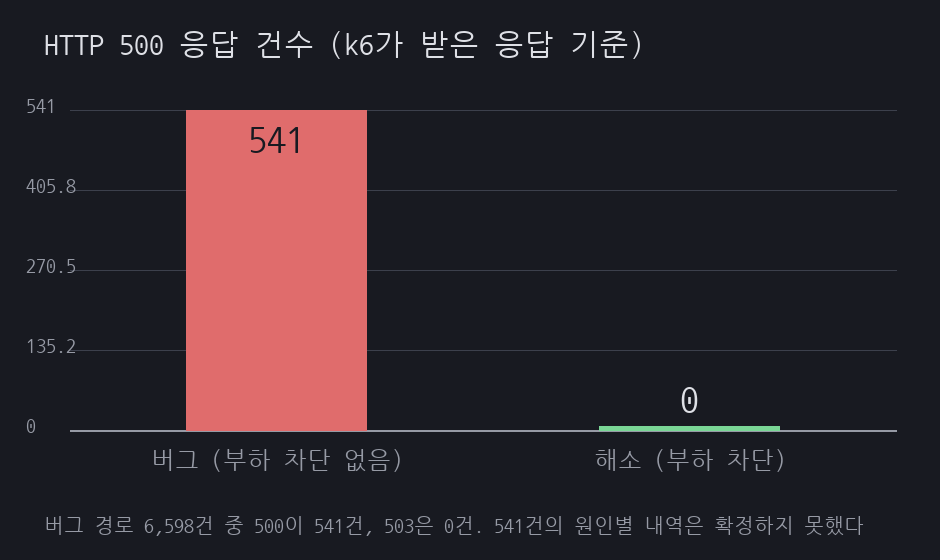
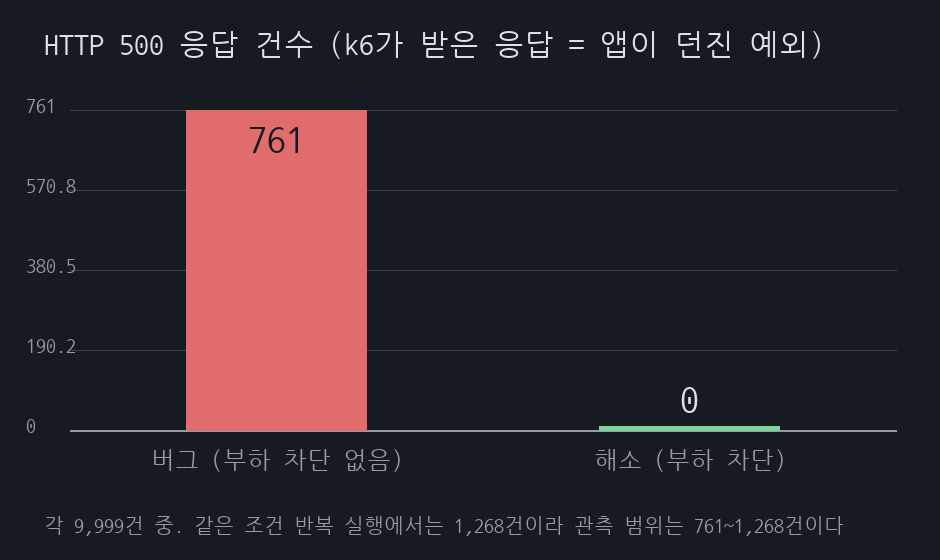
접속 폭주 편 재측정 그림 반영
F03 재측정에서 다시 만든 그림을 uploads로 옮겼습니다. Tomcat 스레드
계층의 몫을 가른 05-latency-layers.png가 새로 들어갔습니다.
본문 수치 반영은 아직 하지 않았습니다.

diff --git a/src/content/blog/incident/market-open-connection-storm.md b/src/content/blog/incident/market-open-connection-storm.md
@@ -1,8 +1,8 @@
 ---
 title: '오전 9시 접속 폭주에 커넥션 10개짜리 풀이 무너진다'
 titleEn: 'The 9 AM Market Open Traffic Storm'
-description: '한국 증권사 MTS는 장이 열리는 오전 9시에 트래픽이 몰립니다. 국회 정무위원회 이양수 의원실이 증권사 12곳에서 받은 자료로 2022년 1월부터 2026년 3월까지 MTS 전산 장애가 190건 있었습니다. 각 사의 내부 원인 분석은 공개되지 않았습니다. 원인 가설 가운데 커넥션 풀 고갈만 떼어 Spring Boot와 HikariCP로 규모를 줄여 축소 재현했습니다. 풀 10에 초당 400건을 겨냥한 스파이크를 부으니 응답 중앙값이 3.38초로 밀리고 커넥션 획득 타임아웃이 났습니다. k6가 받은 6,598건 가운데 541건이 500이었습니다. 부하 차단을 한 겹 넣자 받은 요청의 중앙값이 51ms, 500이 0건이 됐습니다. 다만 두 실행이 앱에 넣은 요청 수가 6,598건과 9,959건으로 달라 처리량 비교는 하지 않습니다.'
-descriptionEn: "Korean brokerage MTS apps take their heaviest traffic the moment the market opens at 9 AM. A National Assembly office collected 190 MTS outages across 12 brokerages between January 2022 and March 2026, but no firm published its internal root cause, so this session reproduces one representative mechanism at reduced scale instead: connection pool exhaustion on Spring Boot and HikariCP. A pool of 10 under a spike targeting 400 requests per second pushed median latency to 3.38s and produced connection acquisition timeouts, with 541 of the 6,598 responses k6 received coming back as HTTP 500; one layer of load shedding brought the median for admitted requests back to 51ms with zero 500s. The two runs did not deliver the same load to the app (6,598 vs 9,959 requests), so this post does not compare throughput."
+description: '한국 증권사 MTS는 장이 열리는 오전 9시에 트래픽이 몰립니다. 국회 정무위원회 이양수 의원실이 증권사 12곳에서 받은 자료로 2022년 1월부터 2026년 3월까지 MTS 전산 장애가 190건 있었습니다. 각 사의 내부 원인 분석은 공개되지 않았습니다. 원인 가설 가운데 커넥션 풀 고갈만 떼어 Spring Boot와 HikariCP로 규모를 줄여 축소 재현했습니다. 풀 10에 초당 400건 스파이크를 부으니 응답 중앙값이 11.42초로 밀리고 9,999건 가운데 761건이 커넥션 획득 타임아웃으로 500이 됐습니다. 부하 차단을 한 겹 넣자 같은 부하에서 중앙값 51ms, 500이 0건이 됐고 넘치는 요청은 중앙값 1ms에 503으로 돌아갔습니다. 계층별로 재 보니 중앙값 11.42초 가운데 커넥션 풀 대기는 0.96초뿐이고 약 10.4초는 Tomcat 작업 스레드를 기다린 시간이었습니다.'
+descriptionEn: "Korean brokerage MTS apps take their heaviest traffic the moment the market opens at 9 AM. A National Assembly office collected 190 MTS outages across 12 brokerages between January 2022 and March 2026, but no firm published its internal root cause, so this session reproduces one representative mechanism at reduced scale instead: connection pool exhaustion on Spring Boot and HikariCP. A pool of 10 under a 400 requests per second spike pushed median latency to 11.42s, and 761 of the 9,999 requests came back as HTTP 500 from connection acquisition timeouts. One layer of load shedding, under an identical load, brought the median back to 51ms with zero 500s while shedding the excess as 503 in a median of 1ms. Instrumenting each tier showed that only 0.96s of the 11.42s median was connection pool wait; roughly 10.4s was spent waiting for a Tomcat worker thread."
 date: 2026-07-28
 tags:
   - Spring Boot
@@ -29,19 +29,21 @@ coverImage: /uploads/incident/market-open-connection-storm/01-buggy-storm.png
 
 증권 MTS의 시세 조회 API를 축소했습니다. Spring Boot 3.3의 내장 Tomcat에 조회 엔드포인트 `GET /quote`를 두고, 조회 한 건이 DB 커넥션을 약 50ms 점유하도록 했습니다. 느린 조인이나 직렬화, 외부 시세 대기 같은 실제 지연을 pg_sleep으로 모델링한 것입니다. HikariCP 풀은 10, 커넥션 획득 제한 시간은 2초입니다. 조회 한 건이 커넥션을 50ms 잡으므로 풀 10으로는 초당 약 200건이 한계입니다. 이 200건이라는 상한은 실측이 아니라 `pg_sleep(0.05)`라는 모형이 정의한 값입니다. 실제 조회는 CPU와 IO를 쓰고 서로 경합하므로 상한이 이렇게 깔끔하게 떨어지지 않습니다. 이 글에서 초당 200건이라는 표현이 나오면 전부 이 모형의 산술이라고 읽어야 합니다.
 
-부하는 k6로 09:00 정각 스파이크를 흉내 냈습니다. 도착률 모델로 초당 400건을 5초에 걸쳐 올려 20초를 유지했습니다. 풀 용량의 두 배입니다. 환경은 Docker 위 Postgres 16과 eclipse-temurin:21입니다.
+부하는 k6로 09:00 정각 스파이크를 흉내 냈습니다. 도착률 모델로 초당 400건을 5초에 걸쳐 올려 20초를 유지했습니다. 풀 용량의 두 배입니다. VU는 5,000개를 미리 잡아 두었습니다. 이 숫자가 중요합니다. VU 하나는 응답을 받을 때까지 묶여 있으므로, 모자라면 도착률 모델을 걸어 두고도 목표만큼 쏘지 못합니다. 처음 측정에서 실제로 그렇게 됐고, 그 이야기는 5절에서 하겠습니다. 환경은 Docker 위 Postgres 16과 eclipse-temurin:21입니다.
 
-호스트는 2 vCPU 한 대입니다(`uname -srm`은 `Linux 5.14.0-570.33.2.el9_6.aarch64`, `nproc`는 2, 메모리 11GiB). Postgres와 앱, 그리고 부하 생성기 k6가 모두 이 한 대에서 돌았고 compose 파일에 컨테이너 CPU 제한을 걸지 않았습니다. 부하 생성기가 측정 대상과 코어 두 개를 나눠 썼다는 뜻이라, 아래 지연 수치에는 k6 자신이 만든 경합이 섞여 있습니다.
+호스트는 2 vCPU 한 대입니다(`uname -srm`은 `Linux 5.14.0-570.33.2.el9_6.aarch64`, `nproc`는 2, `free -g`의 total은 11). Postgres와 앱, 그리고 부하 생성기 k6가 모두 이 한 대에서 돌았고 compose 파일에 컨테이너 CPU 제한을 걸지 않았습니다. 게다가 이 장비에는 모니터링 스택이 상주하고, 측정 나흘 전부터 `dockerd`가 계속 논리 코어 하나를 통째로 쓰고 있었습니다. 이 조건을 바꾸지 못한 채 쟀으므로, 실행마다 `uptime`을 찍어 세션 기록에 남겼습니다. 아래 두 실행의 직전 load average는 4.87과 3.87입니다. 지연 수치에는 그만큼의 경합이 섞여 있습니다.
 
 ![F03 버그 경로 부하 화면](/uploads/incident/market-open-connection-storm/01-buggy-storm.png)
 
-*그림 1. 부하 차단이 없는 버그 경로의 부하 화면입니다. 풀 열 개가 모두 사용 중이고 획득 대기 큐에 189건이 쌓여 응답 중앙값이 3.38초로 밀립니다. 아래 줄의 응답 상태 분포가 541이라는 수치의 근거입니다.*
+*그림 1. 부하 차단이 없는 버그 경로의 부하 화면입니다. 풀 열 개가 모두 사용 중이고 획득 대기 큐가 쌓여 응답 중앙값이 11.42초로 밀립니다. 앱이 던진 예외 761건과 k6가 받은 500 응답 761건이 같습니다.*
 
-부하 차단이 없는 `/quote/buggy`는 초당 약 200건까지만 처리하고 나머지는 커넥션을 기다렸습니다. 응답 시간 중앙값이 평상시 약 50ms에서 3.38초로, p95는 5.36초로 밀렸습니다. 이때 풀은 열 개가 모두 사용 중이었고 획득 대기 큐에 189건이 쌓여 있었습니다. 로그 원문은 `total=10, active=10, idle=0, waiting=189`입니다.
+부하 차단이 없는 `/quote/buggy`는 초당 약 200건까지만 처리하고 나머지는 커넥션을 기다렸습니다. 응답 시간 중앙값이 평상시 약 50ms에서 11.42초로, p95는 20.96초로 밀렸습니다. 이때 풀은 열 개가 모두 사용 중이었고 획득 대기 큐에 최대 191건이 쌓여 있었습니다. 로그 원문의 첫 예외는 `total=10, active=10, idle=0, waiting=186`입니다.
 
-2초 안에 커넥션을 받지 못한 요청은 500으로 떨어졌습니다. 그 건수가 541건입니다. 이 값은 k6가 클라이언트 쪽에서 받은 응답을 센 것입니다. [results/buggy-k6.txt](https://github.com/dj258255/incident-lab/blob/main/sessions/F03-market-open-connection-storm/results/buggy-k6.txt)의 상태 분포가 200이 6,057건, 500이 541건, 503이 0건이고, 이 셋을 더하면 `http_reqs` 6,598건과 정확히 맞습니다. 요약의 `http_req_failed 8.19% 541 out of 6598`도 같은 값이라, 실패로 잡힌 541건에 503이나 응답을 아예 받지 못한 요청은 섞여 있지 않습니다. 즉 541은 버그 경로가 돌려준 HTTP 500의 개수입니다.
+2초 안에 커넥션을 받지 못한 요청은 500으로 떨어졌습니다. 목표 도착률의 10,000회 가운데 9,999회가 발사됐고 그중 761건이 500입니다. [results/buggy-k6.txt](https://github.com/dj258255/incident-lab/blob/main/sessions/F03-market-open-connection-storm/results/buggy-k6.txt)의 상태 분포가 200이 9,238건, 500이 761건, 503이 0건, 응답을 받지 못한 요청이 0건이고, 합이 `http_reqs` 9,999건과 정확히 맞습니다.
 
-다만 그 541건이 전부 커넥션 획득 타임아웃 때문이었는지는 확정하지 못했습니다. 앱 로그 쪽 집계가 저장소 안에서 두 값으로 갈리기 때문입니다. 재현 기록은 `docker logs lab-f03-app | grep -c "Connection is not available"`의 결과를 541로 적었는데, 같은 실행의 로그를 발췌한 [results/hikari-timeout.txt](https://github.com/dj258255/incident-lab/blob/main/sessions/F03-market-open-connection-storm/results/hikari-timeout.txt)는 "이 실행에서 위 예외로 처리된 500이 27건"이라고 적었습니다. 27이 무엇을 센 값인지는 갈라내지 못했습니다. 그 파일은 스택트레이스를 줄여 놓은 발췌라 `docker logs`의 원문 출력이 아니고, 그 안의 `waiting=189`도 재현 기록에는 한동안 188로 옮겨 적혀 있었습니다. 다른 시도의 기록일 수도 있고 발췌가 잘렸을 수도 있는데, 남은 파일로는 가릴 수 없습니다. 그래서 이 글은 541을 "k6가 받은 500 응답 수"로만 쓰고, 그 가운데 몇 건이 HikariCP 예외였는지는 재지 못한 것으로 둡니다.
+그리고 이번에는 그 761건이 무엇 때문이었는지도 갈립니다. 앱 로그를 발췌하지 않고 통째로 저장해 `grep -c "Connection is not available"`을 돌리니 정확히 761건이 나왔습니다. k6가 클라이언트 쪽에서 받은 500과 앱이 서버 쪽에서 던진 예외가 같은 수입니다. 조건을 바꿔 가며 일곱 번을 돌렸는데 전부 맞았습니다. 앱 예외와 k6의 500이 각각 761/761, 1,268/1,268, 0/0, 26/26, 3,945/3,945, 0/0, 0/0입니다.
+
+이 대조는 앞선 측정에서 걸렸던 문제를 풀려고 넣은 것입니다. 그때는 재현 기록이 같은 `grep -c`를 541건으로 적고 발췌 파일은 27건으로 적어, 앱 로그 쪽 집계가 저장소 안에서 갈렸습니다. 발췌 파일이 스택트레이스를 줄여 놓은 것이라 어느 쪽이 참인지 가릴 수 없었고, 그래서 "500 541건 가운데 몇 건이 풀 타임아웃인지는 모른다"고 적어 두어야 했습니다. 27이 무엇이었는지는 지금도 모릅니다. 다만 이 글은 더 이상 그 값에 기대지 않습니다.
 
 ## 3. 내부 원리
 
@@ -49,7 +51,32 @@ coverImage: /uploads/incident/market-open-connection-storm/01-buggy-storm.png
 
 기다림은 두 곳에서 쌓입니다. 먼저 HikariCP의 획득 대기 큐입니다. 앞 요청이 커넥션을 반환할 때까지 기다리다 2초를 넘기면 `SQLTransientConnectionException`이 나고 500으로 끝납니다. 다음은 내장 Tomcat의 처리 스레드입니다. 스레드가 커넥션을 기다리며 붙잡혀 있으면 새 요청은 그 앞 단계에서 다시 기다립니다. 그래서 증상이 500 에러보다 응답 시간 폭증으로 먼저 나타납니다. 제한 시간을 넉넉히 둘수록 요청은 실패 대신 몇 초씩 매달립니다.
 
-중앙값 3.38초를 풀 대기만으로 설명할 수는 없습니다. `connection-timeout`이 2000ms라 풀에서 기다릴 수 있는 시간의 상한이 2초이고, 여기에 쿼리 50ms를 더해도 2.05초입니다. 3.38초는 그 위입니다. 남은 1초 남짓은 풀 앞단에서 쌓인 것입니다. Tomcat의 처리 스레드는 `max-threads` 기본값 200개인데 획득 대기 큐에 189건이 잡혀 있었으니, 스레드가 거의 다 커넥션을 기다리며 묶여 있었다는 뜻입니다. 그다음 요청은 accept 큐에서 스레드가 나기를 기다립니다. 이 재현은 병목을 풀 계층에 두려고 `accept-count`를 1000으로 넓혀 두었는데, 그래서 거부되지 않고 대기 시간으로 바뀌었습니다. 즉 중앙값 3.38초는 풀 대기와 스레드 대기와 accept 큐 대기의 합이고, 각 계층의 몫이 얼마인지는 따로 재지 않았습니다.
+그러면 중앙값 11.42초 가운데 어느 계층이 얼마를 먹었을까요. 앞선 회차에서는 이 물음에 산술로만 답했습니다. `connection-timeout`이 2000ms라 풀 대기의 상한이 2초이고 쿼리 50ms를 더해도 2.05초이니 나머지는 앞단에서 쌓였을 것이라는 추론이었습니다. 이번에는 앱에 계측을 넣어 실제로 갈랐습니다.
+
+서블릿 필터를 맨 앞에 두어 진입부터 응답 완료까지를 재고, `DataSource`를 감싸 커넥션 획득에 걸린 시간만 따로 잽니다. 필터에 닿았다는 것은 이미 Tomcat 작업 스레드를 하나 잡았다는 뜻입니다. 그러니 k6가 잰 전체 시간에서 필터가 잰 시간을 빼면 스레드를 기다린 시간이 남습니다.
+
+![중앙값의 계층별 몫](/uploads/incident/market-open-connection-storm/05-latency-layers.png)
+
+*그림 2. 중앙값 11.42초의 계층별 몫입니다. 커넥션 풀 대기는 0.96초, 쿼리는 0.05초, 나머지 약 10.4초는 서블릿에 닿기도 전에 쌓인 시간입니다.*
+
+앱 안에서 쓴 시간은 중앙값 1.01초였습니다. 그 대부분인 0.96초가 커넥션 획득 대기이고 쿼리가 0.05초입니다. 나머지 약 10.4초, 그러니까 중앙값의 91%는 서블릿 필터에 닿기도 전에 쌓였습니다. 같은 시각에 찍은 큐 길이가 그림과 맞습니다. Tomcat 작업 스레드는 200개가 전부 사용 중이고, 스레드를 기다리는 요청이 최대 4,335건, 열려 있는 소켓이 4,995개였습니다.
+
+중앙값끼리 뺀 값이라 엄밀하게는 근사입니다. 근사에 기대지 않는 하한은 이렇습니다. 앱 안에서 잰 시간의 최댓값이 2.13초였으므로, 중앙값 11.42초짜리 요청은 적어도 9.3초를 앱 밖에서 기다렸습니다.
+
+`max-threads`를 바꿔 가며 확인했습니다. 이 값이 대기가 어느 계층에 고이는지를 정합니다.
+
+| max-threads | 응답 중앙값 | 앱 안 중앙값 | 풀 획득 중앙값 | 500 응답 | 획득 대기 큐 최대 |
+|---|---|---|---|---|---|
+| 10 | 13.54초 | 51.28ms | 0.00ms | 0건 | 0 |
+| 50 | 13.38초 | 59.66ms | 0.04ms | 26건 | 41 |
+| 200 (기본값) | 11.42초 | 1,014.66ms | 962.97ms | 761건 | 191 |
+| 1000 | 11.17초 | 1,701.09ms | 1,589.14ms | 3,945건 | 901 |
+
+획득 대기 큐의 최대치가 `max-threads`에서 풀 크기 10을 뺀 값과 거의 같습니다. 0, 41, 191, 901입니다. 커넥션을 기다릴 수 있는 요청 수는 작업 스레드 수가 정합니다. 스레드를 열 개로 줄이면 풀 대기가 사실상 사라지고 커넥션 타임아웃 500도 0건이 되지만, 기다림이 없어진 것이 아니라 전부 스레드 계층으로 옮겨 갔을 뿐입니다. 반대로 천 개로 늘리면 풀 대기 중앙값이 1.59초까지 올라 2초 상한을 넘긴 3,945건이 500이 됩니다. 그러면서도 처리량은 네 조건 모두 초당 180건에서 224건 사이입니다.
+
+여기서 두 가지를 갈라야 합니다. **처리량의 상한을 정하는 것은 커넥션 풀이고, 기본 설정에서 지연의 대부분을 만드는 것은 그 앞의 스레드 계층입니다.** 앞선 회차의 글은 "병목이 풀 계층에 고정됐다"고 적었다가 근거가 없어 지웠는데, 재 보니 그 문장은 처리량에 대해서만 참이었습니다. 전체 응답 시간을 놓고 보면 풀 계층의 몫은 9%입니다.
+
+`accept-count`에 대해서도 한 가지 바로잡습니다. 이 재현은 병목을 풀 계층에 두려고 `accept-count`를 1000으로 넓혔다고 적어 두었는데, 이 값은 커널 listen 백로그일 뿐 앱이 동시에 붙들 수 있는 요청 수를 정하지 않습니다. 실제로 소켓을 붙들고 있는 것은 Tomcat의 `max-connections`(기본 8192)입니다. 그래서 열린 소켓이 5,000개 가까이 올라갔습니다.
 
 ## 4. 해소
 
